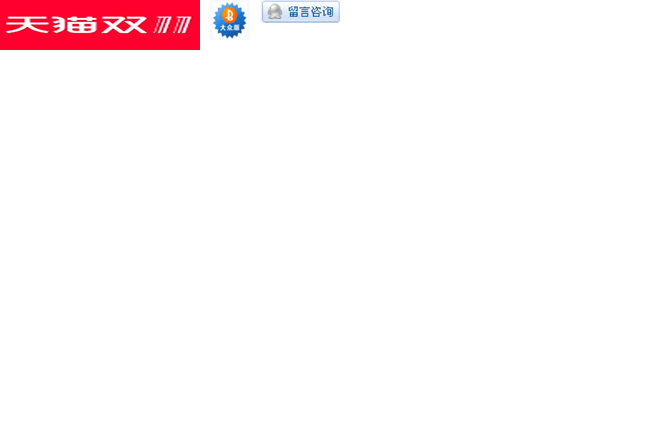
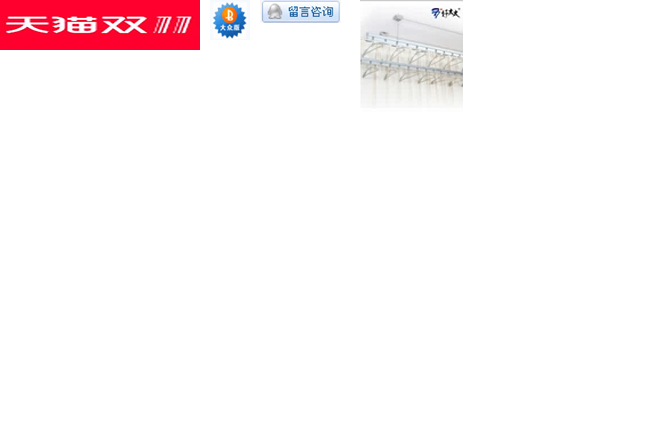
中部切图

Changed region(s): [[0.5455, 0.0, 0.7273, 0.2364]]

diff --git a/css/index.css b/css/index.css
@@ -103,7 +103,7 @@ a{
    
     width: 520px;
     height: 210px;
-    background: yellow;
+    background: url(../image/banner.png);
 }
 .message{
     width: 230px;
@@ -173,4 +173,75 @@ a{
    background: url(../image/xuebitu.png) -260px 0;
    height: 23px;
    width: 81px;
+   margin-left: 81px;
+   margin-top: 7px;
+}
+.meterial{
+    border-top: 2px solid #C3D7E4;
+    line-height: 34px;
+    height: 34px;
+    margin:0 auto;
+    margin-top: 14px;
+    width: 950px;
+    background-color: #ECF1F7;
+    font-weight: bold;
+    padding-left: 20px;
+}
+.product{
+    width: 970px;
+    height: 345px;
+    background: red;
+    margin: 0 auto;/*居中*/
+    margin-top: 12px;
+}
+.product_l{
+    width: 738px;
+    height: 345px;
+    background: pink;
+    border:1px solid #D8D8D8;
+}
+.product_l .product_l_top{
+    width:712px;
+    height: 155px;
+    padding: 17px 0 0 26px;
+    background: yellow;
+
+}
+.product_l .p_l_t_product1{
+    height: 146px;
+    width: 350px;
+}
+.product .buy{
+    width: 99px;
+    height: 143px;
+    
+}
+.product .explain{
+    width: 250px;
+    height: 143px;
+    background: red;
+
+}
+.product .buy .img{
+    border: 1px solid #CACACA;
+    height: 100px;
+}
+.product .buy .img s{
+    display: inline-block;
+    width: 90px;
+    height: 80px;
+    background: url(../image/xuebitu.png) -360px 0;
+    margin: 10px 4px 0 3px;
+}
+.product .buy .btn{
+    width: 99px;
+    height: 26px;
+    color: white;
+    background: #0A84E3;
+    margin-top: 15px;
+}
+.product_r{
+    width: 230px;
+    height: 345px;
+    background:green;
 }

diff --git a/index.html b/index.html
@@ -80,5 +80,26 @@
     </div>
     <!--E=banner-->
     
+    <div class="meterial">建筑材料</div>
+    <!--S=具体信息-->
+    <div class="product">
+        <div class="product_l fl">
+            <div class="product_l_top">
+                <div class="p_l_t_product1 fl">
+                    <div class="buy fl">
+                       <div class="img"><s></s></div>
+                        <input type="button" value="立即购买" class="btn">
+                    </div>
+                    <div class="explain fl"></div>
+                </div>
+                <div class="p_l_t_product2 fl"></div>
+            </div>
+            <div class="product_l_line"></div>
+            <div class="product_l_buttom"></div>
+        </div>
+        <div class="product_r fr"></div>
+    </div>
+    <!--E=具体信息-->
+
 </body>
 </html>
